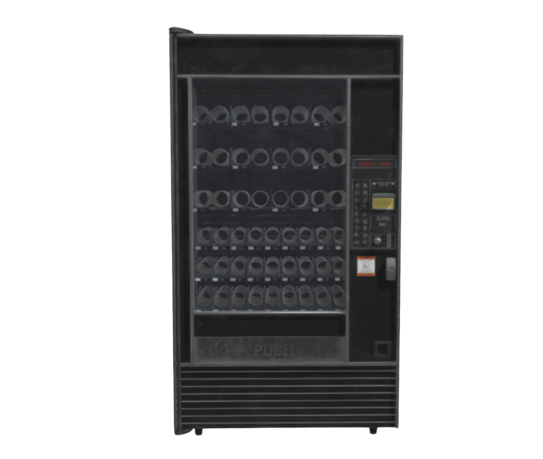
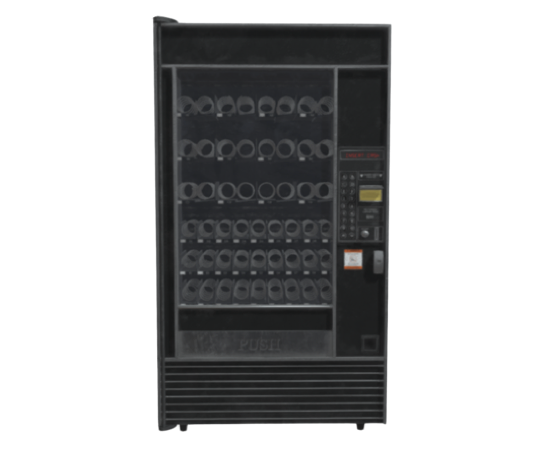
two vending machines added to our machines page

Changed region(s): [[0.2652, 0.0305, 0.7661, 0.9455]]

diff --git a/machines.html b/machines.html
@@ -57,10 +57,10 @@
                             <a href="index.html" class="nav__link">Home</a>
                         </li>
                         <li class="nav__item">
-                            <a href="stats.html" class="nav__link active-link">Statistics</a>
+                            <a href="stats.html" class="nav__link">Statistics</a>
                         </li>
                         <li class="nav__item">
-                            <a href="#" class="nav__link">Services</a>
+                            <a href="#" class="nav__link active-link">Our Machines</a>
                         </li>
                         <li class="nav__item">
                             <a href="#" class="nav__link">Contact</a>
@@ -132,31 +132,53 @@
         <div class="blog__content grid__blog">
 
 
-            <article class="blog__card">
-                <div class="blog__image">
-                    <img src="assets/img/basicmachine.png" alt="chart showing increase in stds" class="blog__img">
-                    <a href="https://www.statista.com/chart/19597/total-reported-std-cases-in-the-us/" class="blog__button">
-                        <i class='bx bx-right-arrow-alt'></i>
-                    </a>
+            <article  class="machine__container">
+                <div class="machine__image">
+                    <img src="assets/img/basicmachine.png" alt="chart showing increase in stds" class="machine__img"> 
                 </div>
-
-                <div class="blog__data">
-                    <h2 class="blog__title">
-                        U.S. STD Cases Rise To Record High
+                <div class="machine__data">
+                    <h2 class="machine__title">
+                        Basic Vending Machine
                     </h2>
-                    <p class="blog__description">
-                        Numerous factors are being blamed for the increase, particularly funding cuts for local health departments that have caused staff shortages and clinic closures, as well as a decrease in condom usage.
-                    </p>
-
-                    
-
-                    <div class="blog__footer">
-                        <div class="blog__reaction" id="elementId">
-                            <i class='bx bx-copy' ></i>
-                            <span>Copy Article Link</span>
-                        </div>
-                    </div>
                 </div>
+
+                    <br/>
+
+                    <div class="machine__footer">
+                        <a href="mailto:danieleyny@gmail.com?bcc=charlieeyny@gmail.com, 214w102@gmail.com&subject=Request A Machine&body=Hello, %0D%0A %0D%0A I am interested in having the Basic SafeChoice vending machine placed in my dorm building. I am reaching out from (Your School Here). %0D%0A%0D%0A%0D%0A Please Add The Following For A Better Response - %0D%0A%0D%0A Name: (Optional) %0D%0A%0D%0A Email: (Optional) %0D%0A%0D%0A Phone Number: (Optional)" class="machine__button">
+                        <div class="blog__reaction">  
+
+                            <span>Request Machine&nbsp;</span>
+                            <i class='bx bx-message' ></i>
+
+                        </div>
+                    </a>
+                    </div>
+            </article>
+
+
+            <article class="machine__container">
+                <div class="machine__image">
+                    <img src="assets/img/3vendingmachines.png" alt="chart showing increase in stds" class="machine__img"> 
+                </div>
+                <div class="machine__data">
+                    <h2 class="machine__title">
+                        Digital Vending Machine
+                    </h2>
+                </div>
+
+                    <br/>
+
+                    <div class="machine__footer">
+                        <a href="mailto:danieleyny@gmail.com?bcc=charlieeyny@gmail.com, 214w102@gmail.com&subject=Request A Machine&body=Hello, %0D%0A %0D%0A I am interested in having the Digital SafeChoice vending machine placed in my dorm building. I am reaching out from (Your School Here). %0D%0A%0D%0A%0D%0A Please Add The Following For A Better Response - %0D%0A%0D%0A Name: (Optional) %0D%0A%0D%0A Email: (Optional) %0D%0A%0D%0A Phone Number: (Optional)" class="machine__button">
+                        <div class="blog__reaction">  
+
+                            <span>Request Machine&nbsp;</span>
+                            <i class='bx bx-message' ></i>
+
+                        </div>
+                    </a>
+                    </div>
             </article>
 
 

diff --git a/assets/css/styles.css b/assets/css/styles.css
@@ -813,6 +813,21 @@ width: 100px;
 .blog__image:hover{
   transform: scale(1.05);
 }
+.blog__image {
+  position: relative;
+  margin-bottom: 1.5rem;
+  transition: 0.5s all ease-in-out;
+}
+
+.blog__img {
+  border-radius: .5rem;
+  box-shadow: 0 4px 16px hsl(355deg 25% 15% / 10%);
+  display: block;
+  border: .1px solid white;
+}
+.blog__image:hover{
+  transform: scale(1.05);
+}
 
 
 .blog__button {
@@ -868,6 +883,112 @@ width: 100px;
 }
 
 .blog__reaction span {
+  font-size: var(--small-font-size);
+  cursor: pointer;
+}
+
+.bx {
+  cursor: pointer;
+}
+
+
+
+/*=============== Our Machines ===============*/
+.machine__container {
+  margin-top: 0px;
+}
+
+.machine__content {
+  row-gap: 3rem;
+}
+
+.machine__card{
+  border: .11px solid whitesmoke ;
+  background-color: whitesmoke;
+  border-radius: .5rem;
+  padding: 20px;
+  position: relative;
+  box-shadow: 0px 4px 16px rgba(43, 31, 31, 0.228);
+
+}
+
+.machine__image {
+  position: relative;
+  margin-bottom: 1.5rem;
+  transition: 0.5s all ease-in-out;
+}
+
+.machine__img {
+  border-radius: .5rem;
+  display: block;
+}
+.machine__image:hover{
+  transform: scale(1.05);
+}
+
+
+.machine__button {
+  display: inline-block;
+  background-color: #38afff;
+  color: whitesmoke;
+  padding: 1rem 2rem;
+  font-weight: 500;
+  border-radius: 10px;
+  transition: .3s;
+  text-decoration: none;
+  position: relative;
+}
+
+.machine__button:hover {
+  background-color: #3197db;
+}
+
+.machine__button i {
+  transition: .4s;
+}
+
+.machine__button:hover i {
+  transform: translateY(-.25rem) translateX(.25rem);
+
+}
+
+.machine__title {
+  font-size: 24px;
+  font-weight: 900;
+  margin-bottom: .75rem;
+  cursor: default;
+}
+
+.machine__data {
+  text-align: center;
+  margin-top: 20px;
+}
+
+.machine__description {
+  margin-bottom: 1.5rem;
+  cursor: default;
+}
+
+.machine__footer, 
+.machine__reaction {
+  display: flex;
+  align-items: center;
+}
+
+.machine__footer {
+  column-gap: 1.5rem;
+  justify-content: center;
+}
+
+.machine__reaction {
+  column-gap: .25rem;
+}
+
+.machine__reaction i {
+  font-size: 1.25rem;
+}
+
+.machine__reaction span {
   font-size: var(--small-font-size);
   cursor: pointer;
 }
@@ -1435,6 +1556,10 @@ border: .5px solid #9cd1f5;
   .container {
     margin-left: 1rem;
     margin-right: 1rem;
+  }
+
+  .machine__container {
+    margin-top: 50px;
   }
 
   .blog__card {
